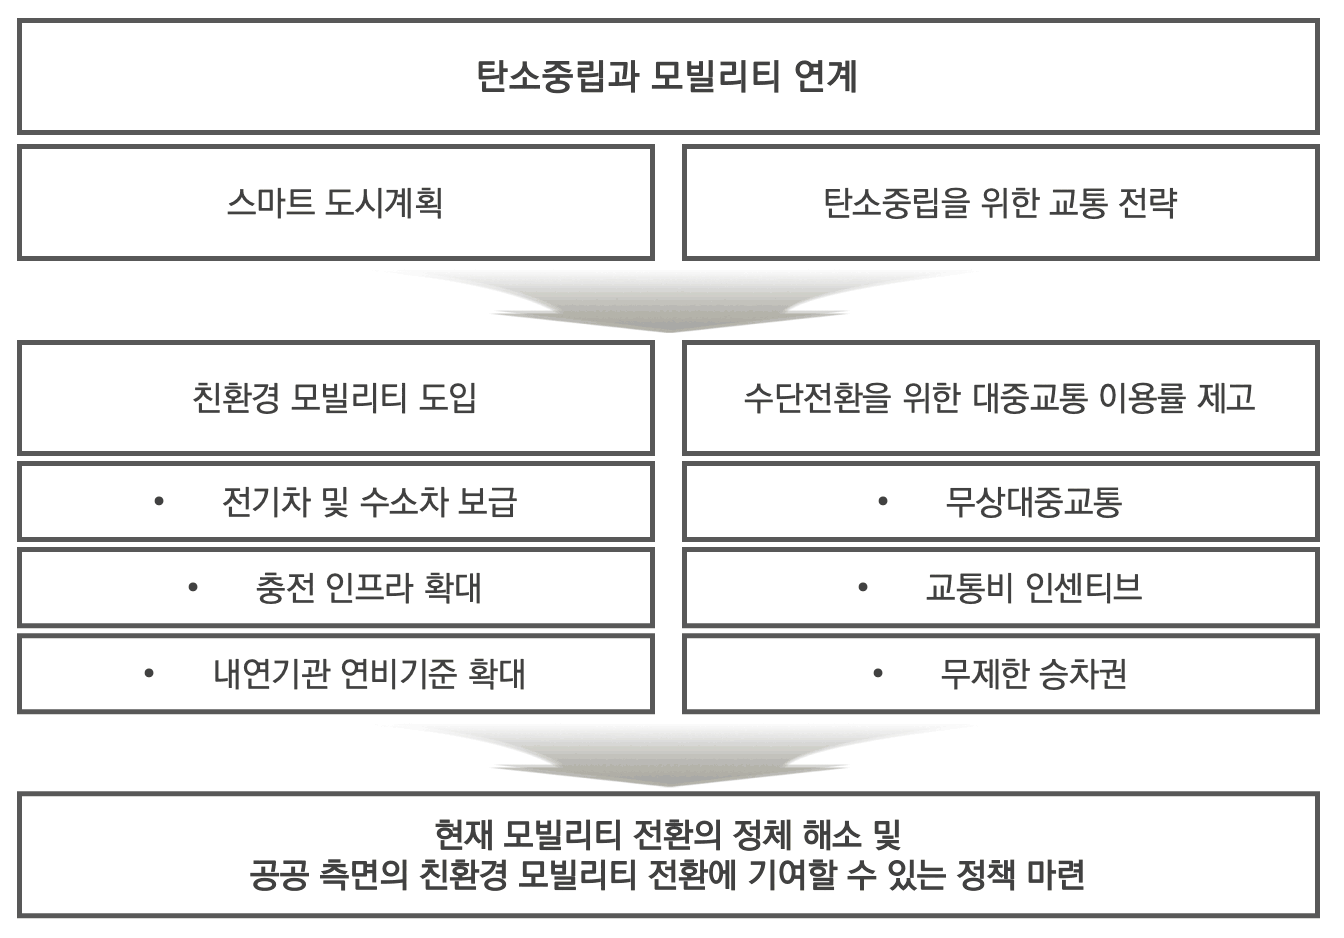
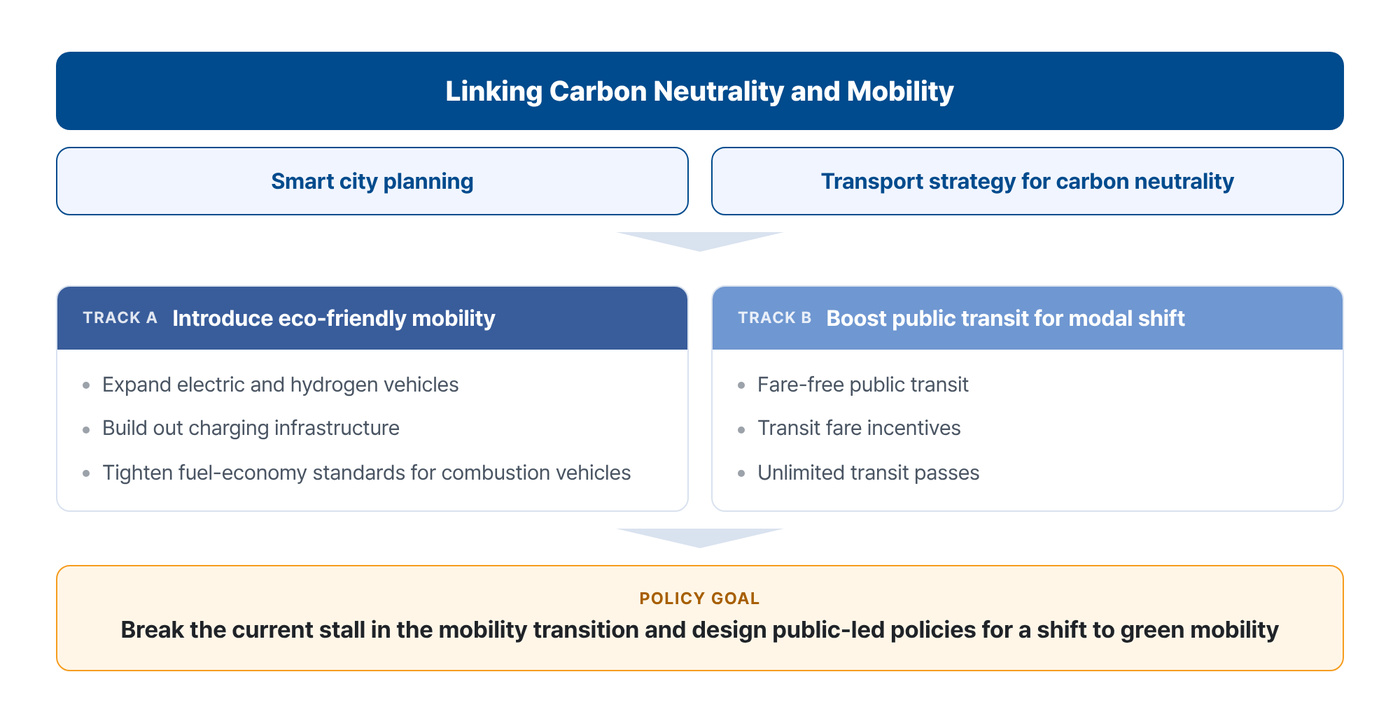
모빌리티·빈집 그림을 영문 자체 제작 그림으로 교체
Claude-Session: https://claude.ai/code/session_012A4og7iAVh6LAxaA8CNLoH

diff --git a/_projects/07_mobility.md b/_projects/07_mobility.md
@@ -31,8 +31,8 @@ description: "강의 연구보고서 · 스마트도시와 사회혁신 · 2024.
 - 대중교통 전환 수단을 무상대중교통(탈린), 무제한 승차권(독일 9유로 티켓, 서울 기후동행카드), 교통비 인센티브(K-패스)로 나눠 분석했어요.
 
 <figure class="research-figure">
-  <img data-zoomable src="/assets/img/research/mobility/fig1.png" alt="탄소중립과 모빌리티 연계를 친환경 모빌리티 도입과 대중교통 이용률 제고 두 갈래로 정리한 도식" loading="lazy">
-  <figcaption><strong>그림 1. 탄소중립과 모빌리티 연계를 위한 정책 도식</strong> 스마트 도시계획과 교통 전략을 바탕으로, 전환 수단을 친환경차 보급(왼쪽)과 대중교통 수단전환(오른쪽) 두 갈래로 나눴어요. 이 보고서는 그동안 상대적으로 덜 다뤄진 오른쪽 갈래에 초점을 맞췄어요.</figcaption>
+  <img data-zoomable src="/assets/img/research/mobility/fig1.png" alt="탄소중립과 모빌리티 연계를 친환경 모빌리티 도입과 대중교통 수단전환 두 갈래로 정리한 영문 도식" loading="lazy">
+  <figcaption><strong>그림 1. 탄소중립과 모빌리티 연계를 위한 정책 도식</strong> 스마트 도시계획과 교통 전략을 바탕으로, 전환 수단을 친환경차 보급(왼쪽)과 대중교통 수단전환(오른쪽) 두 갈래로 나눴어요. 두 갈래 모두 공공이 이끄는 친환경 모빌리티 전환이라는 정책 목표(주황)로 모여요. 이 보고서는 그동안 상대적으로 덜 다뤄진 오른쪽 갈래에 초점을 맞췄어요. 보고서 도식을 바탕으로 영문으로 다시 그렸어요.</figcaption>
 </figure>
 
 #### 주요 결과
@@ -43,8 +43,8 @@ description: "강의 연구보고서 · 스마트도시와 사회혁신 · 2024.
 - 다만 늘어난 승객은 주로 도보·자전거 이용자에서 왔고, 차량 이용자의 전환 효과는 미미하다는 반론도 확인했어요.
 
 <figure class="research-figure">
-  <img data-zoomable src="/assets/img/research/mobility/fig2.png" alt="무상대중교통, 무제한 승차권, 대중교통 인센티브의 주체·유지방법·사례·효과·한계 비교 도식" loading="lazy">
-  <figcaption><strong>그림 2. 대중교통 전환 정책 분석</strong> 세 가지 전환 수단을 운영 주체, 재원 유지 방법, 사례, 효과, 한계로 비교했어요. 공통적으로 온실가스 감축과 혼잡 완화 효과가 있지만, 차량 이용자의 전환 효과는 약하다는 한계도 함께 보여 줘요.</figcaption>
+  <img data-zoomable src="/assets/img/research/mobility/fig2.png" alt="무상대중교통, 무제한 승차권, 대중교통 인센티브의 주체·재원·사례·효과·한계를 비교한 영문 도식" loading="lazy">
+  <figcaption><strong>그림 2. 대중교통 전환 정책 분석</strong> 세 가지 전환 수단을 열로 놓고 운영 주체, 재원, 사례, 정책 중점, 연계 정책, 효과, 한계를 행으로 비교했어요. 주황 테두리 안은 탈린, 독일 9유로 티켓·기후동행카드, K-패스의 사례 비교예요. 공통적으로 온실가스 감축과 혼잡 완화 효과가 있지만, 기존 차량 이용자의 전환 효과는 약하다는 한계도 함께 보여 줘요. 보고서 도식을 바탕으로 영문으로 다시 그렸어요.</figcaption>
 </figure>
 
 #### 시사점

diff --git a/_projects/08_vacant.md b/_projects/08_vacant.md
@@ -31,8 +31,8 @@ description: "강의 연구보고서 · 2023.9 – 2023.12"
 - 사례마다 운영 유형(Type), 주체(Actor), 활동(Activity), 자원(Resource), 지속가능성(Sustainability)을 비교했어요.
 
 <figure class="research-figure">
-  <img data-zoomable src="/assets/img/research/vacant/fig1.png" alt="환경·사회·거버넌스 세 관점에서 빈집 활용을 평가하는 조작적 정의" loading="lazy">
-  <figcaption><strong>그림 1. ESG 분석틀의 조작적 정의</strong> 기업 평가에 쓰던 ESG를 빈집에 맞게 바꿨어요. 훼손된 경관과 인프라는 환경(E), 공동 공간·취약계층 주거 활용은 사회(S), 소유권·관리 체계와 수익 구조는 거버넌스(G)로 평가해요.</figcaption>
+  <img data-zoomable src="/assets/img/research/vacant/fig1.png" alt="환경·사회·거버넌스 세 관점에서 빈집 활용을 평가하는 조작적 정의(영문)" loading="lazy">
+  <figcaption><strong>그림 1. ESG 분석틀의 조작적 정의</strong> 기업 평가에 쓰던 ESG를 빈집에 맞게 바꿨어요. 훼손된 경관과 인프라는 환경(E), 공동 공간·취약계층 주거 활용은 사회(S), 소유권·관리 체계는 거버넌스(G)로 평가해요. 각 줄의 회색 글씨는 원래 ESG가 다루는 범위이고, 주황 화살표 뒤가 빈집에 맞게 바꾼 기준이에요. 보고서 그림을 바탕으로 영문으로 다시 그렸어요.</figcaption>
 </figure>
 
 #### 주요 결과
